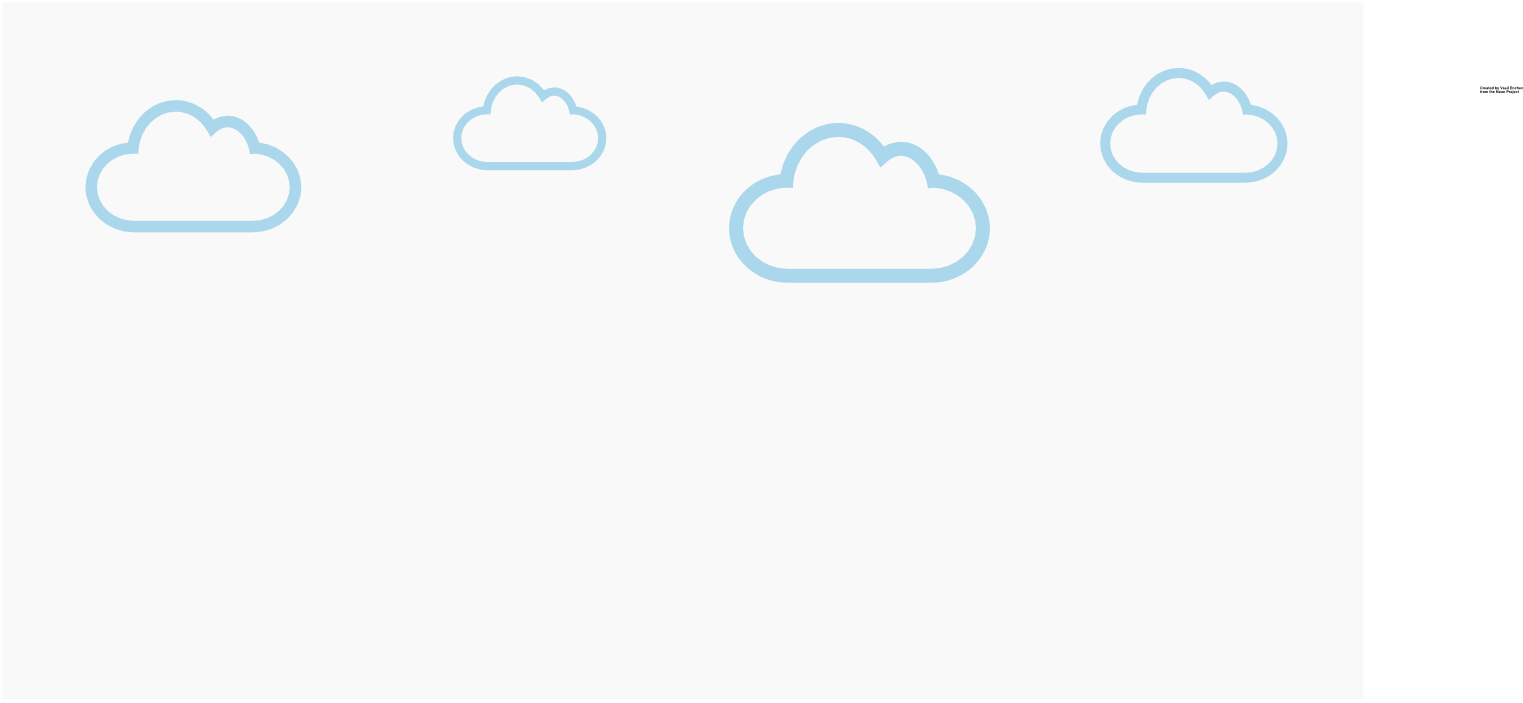
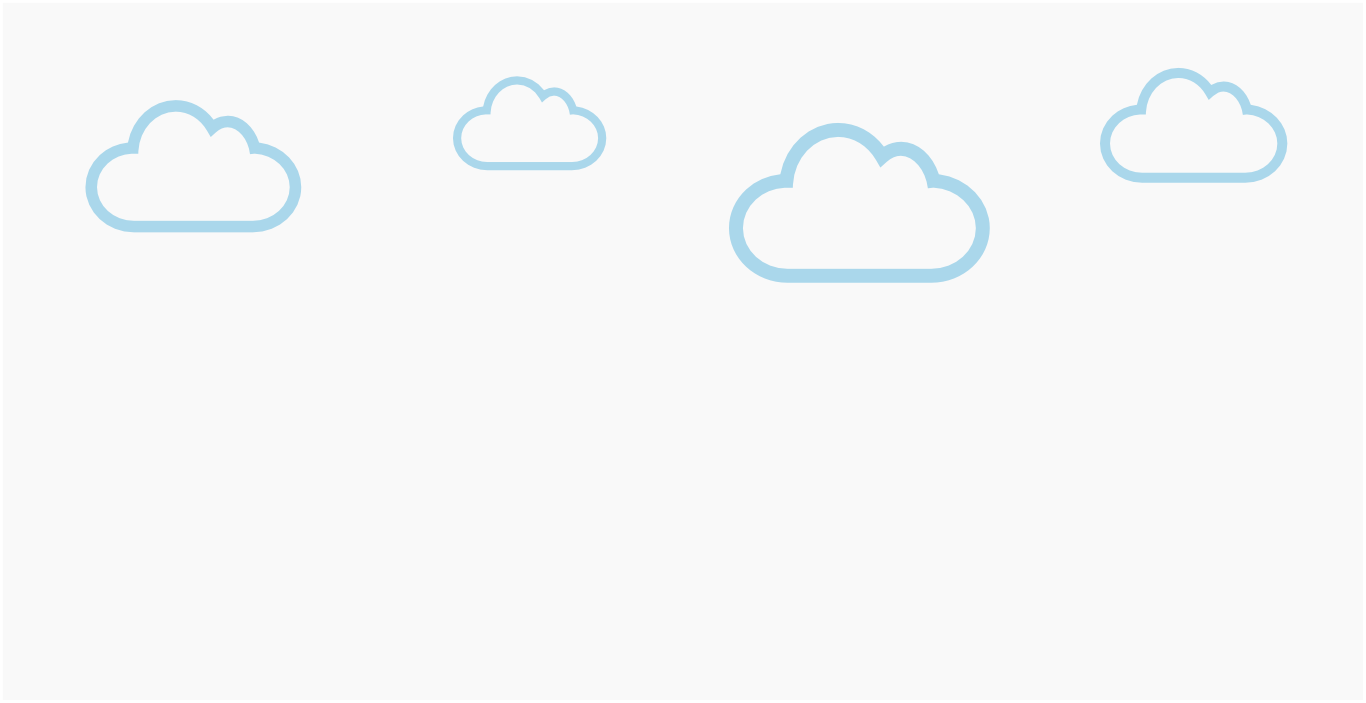
Minor errors fixed

diff --git a/home.html b/home.html
@@ -1,0 +1,92 @@
+<!DOCTYPE html>
+<html lang="en" ng-app="ds">
+  <head>
+    <meta charset="utf-8">
+    <meta http-equiv="X-UA-Compatible" content="IE=edge">
+    <meta name="viewport" content="width=device-width, initial-scale=1">
+    <!-- The above 3 meta tags *must* come first in the head; any other head content must come *after* these tags -->
+    <title>Docket Stack | Deployments made easy</title>
+
+    <!-- Bootstrap -->
+    <link href="css/bootstrap.min.css" rel="stylesheet">
+    <link href="css/animate.css" rel="stylesheet">
+    <link href="bower_components/angular-carousel/dist/angular-carousel.css" rel="stylesheet" type="text/css" />
+
+
+    <link href="css/ds.css" rel="stylesheet">
+
+    <link href='http://fonts.googleapis.com/css?family=Source+Sans+Pro:300,400,600,700,900' rel='stylesheet' type='text/css'>
+    <link href='http://fonts.googleapis.com/css?family=Kaushan+Script' rel='stylesheet' type='text/css'>
+    <link href='bower_components/components-font-awesome/css/font-awesome.css' rel='stylesheet' type='text/css'>
+    
+
+    <!-- HTML5 shim and Respond.js for IE8 support of HTML5 elements and media queries -->
+    <!-- WARNING: Respond.js doesn't work if you view the page via file:// -->
+    <!--[if lt IE 9]>
+      <script src="https://oss.maxcdn.com/html5shiv/3.7.2/html5shiv.min.js"></script>
+      <script src="https://oss.maxcdn.com/respond/1.4.2/respond.min.js"></script>
+    <![endif]-->
+  </head>
+  <body ng-controller="home">
+
+<nav class="navbar navbar-ds navbar-fixed-top">
+  <div class="container-fluid">
+    <!-- Brand and toggle get grouped for better mobile display -->
+    <div class="navbar-header">
+      <button type="button" class="navbar-toggle collapsed" data-toggle="collapse" data-target="#bs-example-navbar-collapse-1">
+        <span class="sr-only">Toggle navigation</span>
+        <span class="icon-bar"></span>
+        <span class="icon-bar"></span>
+        <span class="icon-bar"></span>
+      </button>
+      <a class="navbar-brand" href="#"> </a>
+    </div>
+
+    <!-- Collect the nav links, forms, and other content for toggling -->
+    <div class="collapse navbar-collapse" id="bs-example-navbar-collapse-1">
+      <ul class="nav navbar-nav">
+        
+        
+        
+      </ul>
+
+      <!--
+      <ul class="nav navbar-nav navbar-right">
+        <li><a href="#">Link</a></li>
+        <li class="dropdown">
+          <a href="#" class="dropdown-toggle" data-toggle="dropdown" role="button" aria-expanded="false">Dropdown <span class="caret"></span></a>
+          <ul class="dropdown-menu" role="menu">
+            <li><a href="#">Action</a></li>
+            <li><a href="#">Another action</a></li>
+            <li><a href="#">Something else here</a></li>
+            <li class="divider"></li>
+            <li><a href="#">Separated link</a></li>
+          </ul>
+        </li>
+      </ul>
+      -->
+    </div><!-- /.navbar-collapse -->
+  </div><!-- /.container-fluid -->
+</nav>
+
+<div class="container container-sm b-p-t-lg" >
+
+  <h1 class="text-center">Welcome {{user.name}}!</h1>
+  
+</div>
+
+
+
+    <!-- jQuery (necessary for Bootstrap's JavaScript plugins) -->
+    <script src="bower_components/jquery/dist/jquery.min.js"></script>
+    <!-- Include all compiled plugins (below), or include individual files as needed -->
+    <script src="js/bootstrap.min.js"></script>
+
+    <script src="bower_components/angular/angular.js"></script>
+    <script src="bower_components/angular-touch/angular-touch.js"></script>
+    <script src="bower_components/angular-carousel/dist/angular-carousel.js"></script>
+
+    <script src="js/app.js"></script>
+
+  </body>
+</html>

diff --git a/login.html b/login.html
@@ -1,0 +1,63 @@
+
+<!DOCTYPE html>
+<html lang="en" ng-app="ds">
+  <head>
+    <meta charset="utf-8">
+    <meta http-equiv="X-UA-Compatible" content="IE=edge">
+    <meta name="viewport" content="width=device-width, initial-scale=1">
+    <!-- The above 3 meta tags *must* come first in the head; any other head content must come *after* these tags -->
+    <meta name="description" content="">
+    <meta name="author" content="">
+    <link rel="icon" href="../../favicon.ico">
+
+    <title>Signin Template for Bootstrap</title>
+
+    <!-- Bootstrap core CSS -->
+    <link href="css/bootstrap.min.css" rel="stylesheet">
+
+    <!-- Custom styles for this template -->
+    <link href="css/signin.css" rel="stylesheet">
+
+    <!-- HTML5 shim and Respond.js for IE8 support of HTML5 elements and media queries -->
+    <!--[if lt IE 9]>
+      <script src="https://oss.maxcdn.com/html5shiv/3.7.2/html5shiv.min.js"></script>
+      <script src="https://oss.maxcdn.com/respond/1.4.2/respond.min.js"></script>
+    <![endif]-->
+  </head>
+
+  <body ng-controller="login">
+
+    <div class="container">
+
+      <form class="form-signin">
+        <h2 class="form-signin-heading text-center">Please sign in</h2>
+
+        <label for="inputEmail" class="sr-only">Name</label>
+
+        <input ng-model="user.name" type="text" id="inputName" class="form-control" placeholder="Name" required autofocus>
+
+        <label for="inputEmail" class="sr-only">Email address</label>
+
+        <input ng-model="user.email" type="email" id="inputEmail" class="form-control" placeholder="Email address" required autofocus>
+
+        <label for="inputPassword" class="sr-only">Password</label>
+        <input ng-model="user.password" type="password" id="inputPassword" class="form-control" placeholder="Password" required>
+
+        <div class="checkbox">
+          <label>
+            <input type="checkbox" value="remember-me"> Remember me
+          </label>
+        </div>
+
+        <button class="btn btn-lg btn-primary btn-block" ng-click="login()">Sign in</button>
+      </form>
+
+    </div> <!-- /container -->
+
+
+    <script src="bower_components/angular/angular.js"></script>
+    <script src="bower_components/angular-touch/angular-touch.js"></script>
+    <script src="bower_components/angular-carousel/dist/angular-carousel.js"></script>
+    <script src="js/app.js"></script>
+  </body>
+</html>

diff --git a/js/app.js b/js/app.js
@@ -28,7 +28,52 @@ ds.controller('getBeta', ['$scope', '$http', function($scope, $http) {
 
 	}
 
+}]);
 
+
+ds.controller('login', ['$scope', '$http', function($scope, $http) {
+  
+
+	$scope.user = {};
+	$scope.login = function () {
+
+		console.log($scope.user);
+		
+		sessionStorage.name = $scope.user.name;
+		sessionStorage.email = $scope.user.email;
+		location.href = 'home.html';
+		/*
+		$http.post('http://formspree.io/admin@dockerstack.org', $scope.userInfo).
+		  success(function(data, status, headers, config) {
+
+		  	console.log(data);
+		  	$scope.message = 'We have sucessfully received your details';
+		    // this callback will be called asynchronously
+		    // when the response is available
+		  }).
+		  error(function(data, status, headers, config) {
+
+		  	console.log(data);
+		  	$scope.message = 'We are experiencing some problems now. Please try again later.'
+		    // called asynchronously if an error occurs
+		    // or server returns response with an error status.
+		  });
+
+		*/
+
+	}
+
+
+
+
+}]);
+
+ds.controller('home', ['$scope', '$http', function($scope, $http) {
+  
+
+	$scope.user = {
+		name: sessionStorage.name
+	};
 
 
 }]);

diff --git a/css/signin.css b/css/signin.css
@@ -1,0 +1,40 @@
+body {
+  padding-top: 40px;
+  padding-bottom: 40px;
+  background-color: #eee;
+}
+
+.form-signin {
+  max-width: 330px;
+  padding: 15px;
+  margin: 0 auto;
+}
+.form-signin .form-signin-heading,
+.form-signin .checkbox {
+  margin-bottom: 10px;
+}
+.form-signin .checkbox {
+  font-weight: normal;
+}
+.form-signin .form-control {
+  position: relative;
+  height: auto;
+  -webkit-box-sizing: border-box;
+     -moz-box-sizing: border-box;
+          box-sizing: border-box;
+  padding: 10px;
+  font-size: 16px;
+}
+.form-signin .form-control:focus {
+  z-index: 2;
+}
+.form-signin input[type="email"] {
+  margin-bottom: -1px;
+  border-bottom-right-radius: 0;
+  border-bottom-left-radius: 0;
+}
+.form-signin input[type="password"] {
+  margin-bottom: 10px;
+  border-top-left-radius: 0;
+  border-top-right-radius: 0;
+}

diff --git a/css/ds.css b/css/ds.css
@@ -1,5 +1,6 @@
 body, html {
 	min-height: 100%;
+	height: 100%;
 	width: 100%;
 	font-family: "Source Sans Pro"
 }
@@ -15,6 +16,7 @@ body, html {
 .mastHead{
 	min-height: 100%;
 	width: 100%;	
+	height: 100%;
 	min-height: 500px;
 }
 
@@ -29,8 +31,8 @@ body, html {
 .back1{
 	  background-image: url('../img/bg1.png');
 	  background-repeat: no-repeat;
-	  background-size: contain; 
-	  background-position: center;
+	  background-size: cover; 
+	  background-position: bottom;
 	  background-color: #f9f9f9;
 }
 
@@ -141,7 +143,7 @@ body, html {
 .navbar-brand{
 	color: #fff;
 	font-family: 'Kaushan Script', cursive;
-	font-size: 22px;
+	font-size:w 22px;
 }
 
 .navbar-nav>li>a {
